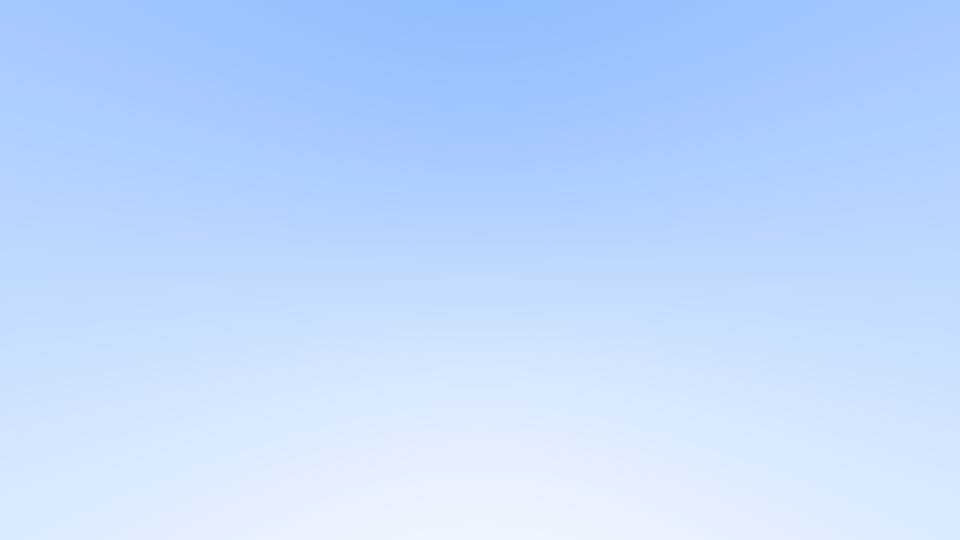
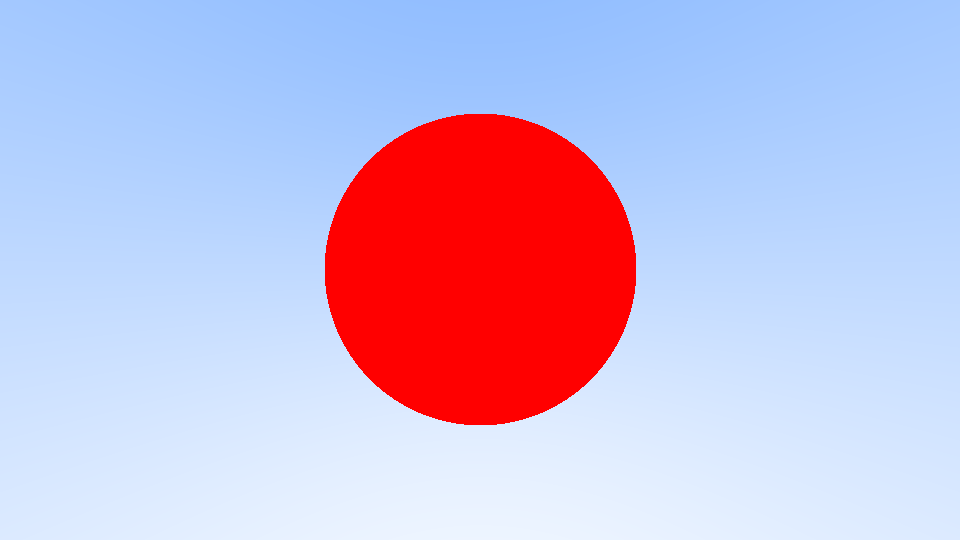
add sphere object
An example to test our logic for our ray tracer.

Changed region(s): [[0.3125, 0.2074, 0.6875, 0.8]]

diff --git a/src/util.cpp b/src/util.cpp
@@ -1,7 +1,20 @@
 #include "include/util.hpp"
 
 CUDA_DEVICE
+bool hit_sphere(const vec3 &center, float radius, const ray &r) {
+	vec3 oc = r.origin() - center;
+	float a = vec3::dot(r.direction(), r.direction());
+	float b = 2.0f * vec3::dot(oc, r.direction());
+	float c = vec3::dot(oc, oc) - radius * radius;
+	float D = b * b - 4 * a * c;
+
+	return D > 0;
+}
+
+CUDA_DEVICE
 vec3 color(const ray& r) {
+	if (hit_sphere(vec3(0.0f, 0.0f, -1.0f), 0.5f, r))
+		return vec3(1.0f, 0.0f, 0.0f);
 	vec3 unit_direction = vec3::unit_vector(r.direction());
 	float t = 0.5f * (unit_direction.y() + 1.0f);
 

diff --git a/src/include/util.hpp b/src/include/util.hpp
@@ -5,6 +5,7 @@
 #include "directives.hpp"
 
 CUDA_DEVICE vec3 color(const ray& r);
+CUDA_DEVICE bool hit_sphere(const vec3 &center, float radius, const ray &r);
 CUDA_GLOBAL void paint_pixel(int nx, int ny, const vec3 *origin,
 			     const vec3 *vertical, const vec3 *horizontal,
 			     const vec3 *lower_left_corner, float *output);
